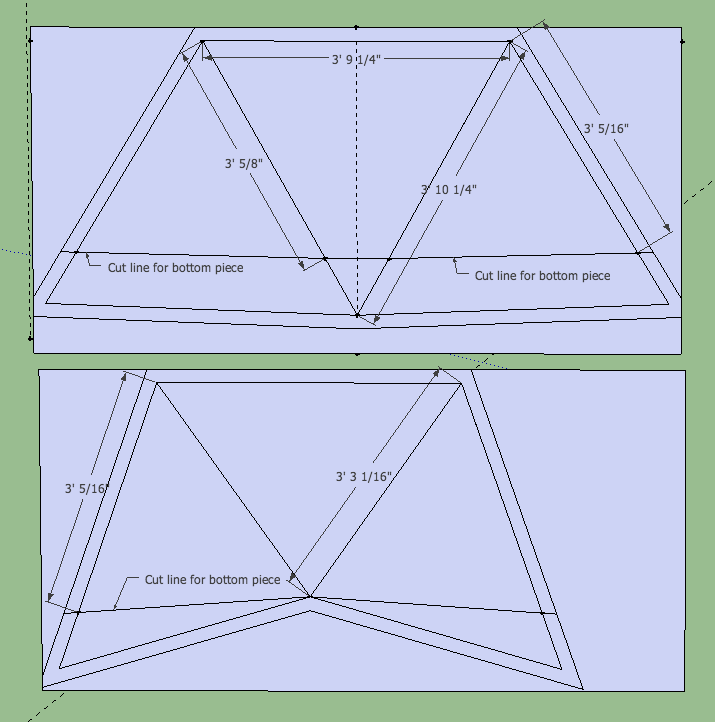
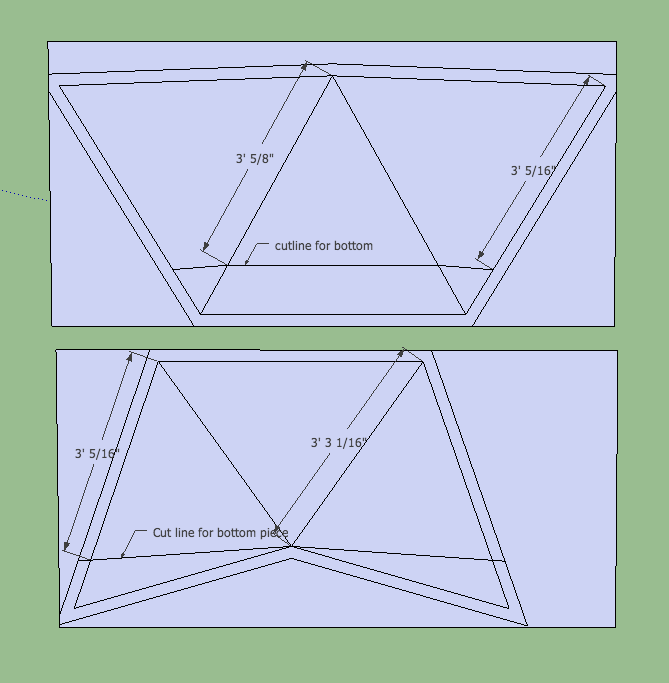
some more work on dome post

diff --git a/drafts/housing-bubble.md b/drafts/housing-bubble.md
@@ -105,12 +105,12 @@ to be fabricated or sourced. Only standard carpentry tools are need to
 fabricate the dome. In fact, a box cutter and a drill is all that is
 needed to make the shell of the dome.
 
-This dome also provides a tremendously fast construction time which is
-comparable or faster than other lightweight structures. When you
-consider that you are getting a tight dry insulated structure, the
-short construction time is remarkable. Once the floor system is in
-place and the shell pieces are fabricated, the structure can be built
-in a day or two by a couple people moving at a human pace.
+This dome can be built very quickly.  The build time is comparable or
+faster than other lightweight structures. When you consider that you
+are getting a tight dry insulated structure, the short construction
+time is remarkable. Once the floor system is in place and the shell
+pieces are fabricated, the structure can be built in a day or two by a
+couple people moving at a human pace.
 
 The fast construction time is mirrored by an equally fast disassembly
 time, making the structure portable. With only a couple pickup truck
@@ -235,13 +235,13 @@ can work in synergy to induce structure.
 ## Frameless Synergy
 
 In conventional wood housing (stick frame) construction the insulation
-and weatherproof siding contribute minimally to holding the structure
+and weatherproof siding contribute nothing to holding the structure
 itself up. Even the external plywood sheathing is only used as a
 lateral brace for the 2x4 walls.
 
 In my frameless dome the skin and the insulation serve more purposes
 than just waterproofing and insulation.  The plastic skin serves as a
-weather proof skin and provides structural tension to the layer
+weather proofing and provides structural tension to the layer
 below. The insulation insulates and provides the bulk of the
 structural support. The inner skin provides structural support and
 clean walls to the interior of the structure.
@@ -249,9 +249,9 @@ clean walls to the interior of the structure.
 All the materials work together in a beautiful harmonious
 efficiency to obviate the need for a frame.
 
-Keep in mind that the plastic sheathing is 3/16" thick and that it is
-helping to provide structural support.  Mind blowing when you think
-about it.
+Keep in mind that the plastic sheathing is 3/16" thick. When you think
+about how super thin and extremely lightweight this material is, the
+fact that it's providing structural support really blows my mind.
 
 ## The construction of current dome
 
@@ -288,7 +288,9 @@ This pattern of hexagons and pentagons should look familiar. You are
 essentially looking at a [soccer
 ball](http://en.wikipedia.org/wiki/File:Soccer_ball.svg).
 
-Soccer ball image here
+<p>
+<img src="/assets/images/dome/soccerball.jpg" style="width: 500px;" />
+</p>
 
 ## Laying out the hexagons
 
@@ -388,7 +390,7 @@ Which gets laid out on a 4x8 sheet like this:
 Well here we are we three different layouts that we can use to produce
 most of the shell of the dome. 
 
-## Three shapes!! 164 parts!!
+## Three patterns!! 164 parts!!
 
 The three shapes we derived above amount to a remarkable
 simplification in fabrication and construction.  We have decimated the
@@ -404,17 +406,19 @@ The parts of the dome are also extremely lightweight. You will need
 ladders or scaffolding but there is absolutely no heavy lifting
 involved.
 
-There is the strain of knowing which parts go where.  But you
-literally can use a soccer ball as your model.  Seriously you can have
-one on hand to know weather you are currently making an hexagon or a
-pentagon.
+There is the strain of knowing which parts go where but you literally
+can use a soccer ball as your model.  Seriously, you can have one on
+hand to know wether you are currently making an hexagon or a pentagon.
 
-## More parts
+## More patterns
 
-There are some other shapes. If you refer back to the dome diagram you
-will notice that the bottom row of triangles is truncated to sit on a flat
-surface. These are derived from the previous layouts and are simply
-truncated versions of two of the previous layouts.
+A few other patterns are needed to finish the shell. These patterns
+are based on the original three patterns.
+
+If you refer back to the dome diagram you will notice that the bottom
+row of triangles is truncated to allow the dome to sit on a flat
+surface. These bottom row patterns are simply truncated versions of
+two of the previous layouts.
 
 <p>
 <img src="/assets/images/dome/bottom_pieces.png"/>
@@ -427,66 +431,51 @@ slightly smaller than the original three patterns.
 <img src="/assets/images/dome/inner_dome_patterns.png"/>
 </p>
 
-Well that is all the patterns needed for the shell of the dome. Keep
-in mind I didn't do any crazy math to calculate these lengths.  I used
-[Google Sketch Up](http://www.sketchup.com/).  I imported a 3v
+These are all the patterns needed for the shell of the dome. 
+
+Keep in mind I didn't do any crazy math to calculate these lengths.  I
+used [Google Sketch Up](http://www.sketchup.com/).  I imported a 3v
 geodesic model and then scaled it to the right size. I then took the
 measurements right from the model.  No rocket science here just
 gratitude for the availability of fantastic easy to use tools.
 
 ## Other details
 
-Of course I have just given a guide to the shell.  I have said nothing
-of doors, windows, ventilation, lighting etc. If there is enough
-interest I may do some follow up posts describing how I tackled these
-different challenges.  But the materials are very easy to work with
-and thus amenable to all sorts of windows and doors.
+Of course, I have only provided insight into to the shell of the dome.
+This is my main novel contribution to this conversation.  I have said
+nothing of doors, windows, ventilation, lighting etc. If there is
+enough interest I may do some follow up posts describing how I tackled
+these different challenges.  But the materials are very easy to work
+with and thus amenable to all sorts of windows and doors.
 
+## Conclusion
 
-## Living in the dome
+This blog post has been a long time coming. I'm really glad I
+procrastinated this long.  I feel much better about recommending
+something that I have experienced  
 
 I think its very important to live in a structure before you advocate
-it.  I have to say that I am very pleased with dome life so far.  The
-insulation works really well for the size and shape of the structure.
-I never get exceptionally cold or warm.  Tree cover has been an
-essential ingredient in this.  The leaves come out in the summer to
-shield the dome from too much solar gain and they go away in the
-winter allowing solar gain to appreciably heat the dome.
+it.  
 
-The dome has survived it's first 3 and a half years.  The exterior
-corrugated plastic was supposed to show degredation from solar
-exposure by now. I fully expected that I would have to replace some of
-the exterior corrugated plastic. But to my surprise the plastic still
-going strong. I suspect that I will only have to replace a few of the
-pieces that get the most sun.  I liken plastic replacement to the
-process of touching up the paint job on a house.
 
 
 ## Early attempts
 
-I have iterated on this idea a bit. The first one was made out sheets
-of plywood and had many of the characteristic properties of a Bucky
-plydome.
+I have iterated on this idea a bit. 
 
+<p>
 <img src="/assets/images/plydome_first.jpg"/>
+</p>
 
-This dome worked but it had the following problems:
+<p>
+<img src="/assets/images/dome/clear_dome.jpg" />
+Don't ask.  This is what total utter failure looks like.
+</p>
 
-* a lot bolts are needed to hold it together
-* the openings are all oddly shaped and hard to cover
-* the wood sheeting doesn't like rain
-
+<p>
 <img src="/assets/images/plastic_dome_first.jpg"/>
+</p>
 
-This second attempted to fix the problems of the first. The only
-great improvement was the plastic.  I was still stuck on the idea of
-using rectilinear material.
-
+<p>
 <img src="/assets/images/plastic_dome_second.jpg"/>
-
-This final design lets go of the idea of rectilinear sheeting material
-and only uses one bolt at each vertex.  This design traded strength
-for lower part count and ease of assembly.
-
-
-
+</p>
